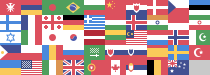
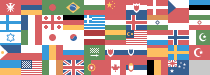
Update flags

diff --git a/stylesheets/ie8.min.css b/stylesheets/ie8.min.css
@@ -1,1 +1,1 @@
-.menu-lang-btn:after,.menu-lang-btn:before{margin-top:-6px;margin-left:-1px}.no-svg .menu-lang .menu-item .lang-flag:after,.no-svg .menu-lang-btn:after{background-image:url(../images/ico-flags-small.png)}.menu-lang-popover.expanded{border:1px solid #000}.footer .voog-reference a,.search{border:1px solid #e5e5e5}.front-page .content .background-color{-ms-filter:"alpha(opacity=50)"}.post .post-right{display:inline-block;vertical-align:top;width:722px}.search .search-left{line-height:1.5em}.content-formatted .form_field_checkbox,.content-formatted .form_field_radio{position:relative;visibility:visible;padding-left:0;top:2px}.content-formatted .form_field_checkbox+.form_control_indicator,.content-formatted .form_field_radio+.form_control_indicator{display:none}
+.menu-lang-btn:after,.menu-lang-btn:before{margin-top:-6px;margin-left:-1px}.no-svg .menu-lang .menu-item .lang-flag:after,.no-svg .menu-lang-btn:after{background-image:url(../images/ico-flags.png)}.menu-lang-popover.expanded{border:1px solid #000}.footer .voog-reference a,.search{border:1px solid #e5e5e5}.front-page .content .background-color{-ms-filter:"alpha(opacity=50)"}.post .post-right{display:inline-block;vertical-align:top;width:722px}.search .search-left{line-height:1.5em}.content-formatted .form_field_checkbox,.content-formatted .form_field_radio{position:relative;visibility:visible;padding-left:0;top:2px}.content-formatted .form_field_checkbox+.form_control_indicator,.content-formatted .form_field_radio+.form_control_indicator{display:none}

diff --git a/stylesheets/ie8.css b/stylesheets/ie8.css
@@ -6,7 +6,7 @@
 
 .no-svg .menu-lang-btn:after, .no-svg
 .menu-lang .menu-item .lang-flag:after {
-  background-image: url("../images/ico-flags-small.png");
+  background-image: url("../images/ico-flags.png");
 }
 
 .menu-lang-popover.expanded {

diff --git a/stylesheets/scss/ie8.scss b/stylesheets/scss/ie8.scss
@@ -15,7 +15,7 @@
 .menu-lang-btn,
 .menu-lang .menu-item .lang-flag {
   .no-svg &:after {
-    background-image: url('../images/ico-flags-small.png');
+    background-image: url('../images/ico-flags.png');
   }
 }
 
